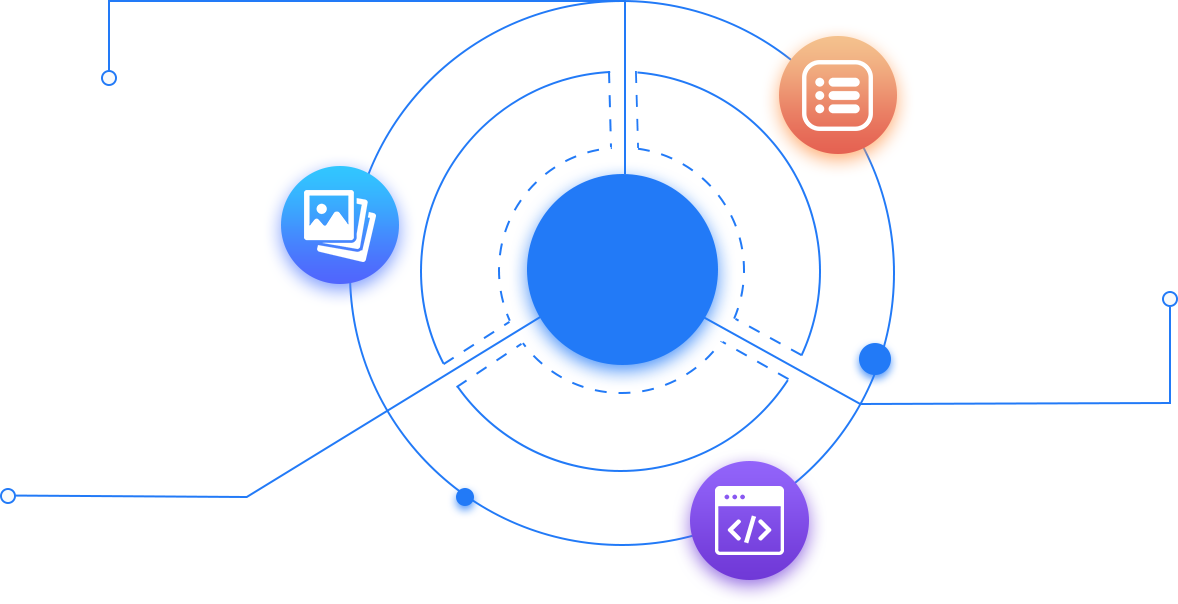
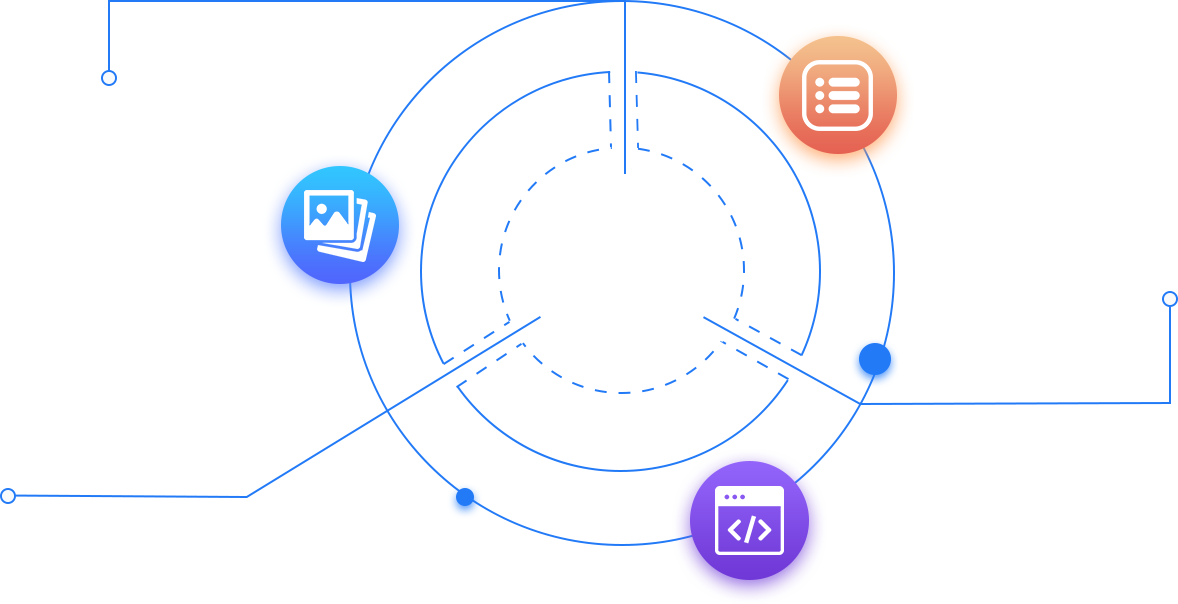
核心技术页面 hover 状态

Changed region(s): [[0.4278, 0.2682, 0.6418, 0.6258]]

diff --git a/static/css/coretech.css b/static/css/coretech.css
@@ -204,7 +204,8 @@
 	.core_datasource {
 		text-align: center;
 		font-size: 24px;
-		color: #a6a7a9
+		color: #a6a7a9;
+		margin-bottom: 60px
 	}
 	.core_pic {
 		width: 33%;
@@ -272,18 +273,6 @@
 		left: 46%;
 		width: 10%
 	}
-	.core_caijifont {
-		position: absolute;
-		text-decoration: none;
-		top:174px;
-		left: 190px;
-		font-size: 30px;	
-		color: white;
-		text-align: center;
-		width: 145px;
-
-	}
-
 	.coretech_parttwo {
 		background-image: url(module2bg.png);
 		background-size: cover;
@@ -400,16 +389,11 @@
 		color: white;
 		text-decoration: none
 	}
-	/*.keshihuafont:hover{
-        box-shadow: 2px 4px 6px #000;
-	}*/
 	.coretech_wrap {
 		position: relative;
 		width: 840px;
 		margin: 0 auto;
-		//border: 1px solid red;
 		margin: 0 auto;
-		margin-top:60px;
 	}
 	.coretech_partonefontwrap1 {
 		position: absolute;
@@ -450,4 +434,96 @@
 	.coretech_partthreefont4box {
 		height: 20px;
 		width: 117px;
+	}
+	#coretech_partonefontwrap4dt {
+		position: absolute;
+		width: 184px;
+		height: 184px;
+		border-radius: 92px;
+		top:113px;
+		left: 167px;
+		background-color: #227af7;
+		box-shadow: 0 15px 30px 0 rgba(34，122，247,0.6);
+	}
+	#core_caijifont {
+		z-index: 1000;
+		position: absolute;		
+		top:168px;
+		left:187px;
+		font-size: 30px;		
+		text-align: center;
+		width: 145px;
+
+	}
+	.core_caijifontdata {
+		text-decoration: none;
+		color: white;
+		font-size: 30px
+	}
+	#core_caijifont:hover + #coretech_partonefontwrap4dt{
+		position: absolute;
+		width: 184px;
+		height: 184px;
+		border-radius: 92px;
+		top:113px;
+		left: 167px;
+		background-color : #1a60c3
+	}
+	#coretech_partonefontwrap4dtrg {
+		position: absolute;
+    	width: 184px;
+    	height: 184px;
+    	border-radius: 92px;
+    	top: -66px;
+    	left: -36px;
+    	background-color: white;
+	}
+	#core_caijifontrg {
+		position: absolute;
+		top:10px;
+		z-index: 1000;
+		text-decoration: none;
+		color: black;
+		width: 184px
+	}
+	#core_caijifontrg:hover + #coretech_partonefontwrap4dtrg{
+		position: absolute;
+    	width: 184px;
+    	height: 184px;
+    	border-radius: 92px;
+    	top: -66px;
+    	left: -36px;
+    	background-color: #d3d3d3;
+	}
+	#coretech_partonefontwrap4dtkeshihua {
+		position: absolute;
+		width: 126px;
+		height: 126px;
+		border-radius: 63px;
+		top:-23px;
+		left: -6px;
+		background-color: #227af7;
+	}
+	#core_caijifontke {
+		z-index: 1000;
+		position: absolute;		
+		top:9px;
+		left:-2px;
+		font-size: 30px;		
+		text-align: center;
+		width: 118px;
+	}
+	.core_caijifontdatakeshihua {
+		text-decoration: none;
+		color: white;
+		font-size: 30px
+	}
+	#core_caijifontke:hover + #coretech_partonefontwrap4dtkeshihua{
+		position: absolute;
+		width: 126px;
+		height: 126px;
+		border-radius: 63px;
+		top:-23px;
+		left: -6px;
+		background-color: #1a60c3;
 	}

diff --git a/coretech.html b/coretech.html
@@ -73,7 +73,7 @@
 				</div>
 				<div class="coretech_wrap">
 					<div class="coretech_img1">
-						<img src='static/imgs/test11.png' class="shujupic"/>
+						<img src='static/imgs/test111.png' class="shujupic"/>
 					</div>
 					<div class="coretech_partonefontwrap1">
 						<div class="core_neiwangfont">内网数据</div>
@@ -88,7 +88,13 @@
 						<div class="core_disanfangemail">支持第三方API 数据连接</div>
 					</div>
 					<div class="coretech_partonefontwrap4">
-						<a href="dataaccess.html" class="core_caijifont">数据接入能力</a>
+						
+						<div id="core_caijifont">
+							<a href="dataaccess.html" class="core_caijifontdata" >数据接入能力</a>
+						</div>
+						<div id="coretech_partonefontwrap4dt">
+							&nbsp;
+						</div>
 					</div>
 				</div>
 				
@@ -102,7 +108,12 @@
 						<div class="coretech_parttwofont3">人工智能引擎</div>
 						<div class="coretech_parttwofont4">自然语言解析</div>
 						<div class="coretech_parttwofont5">
-							<a href="zengqiang.html" class="rengongfont">人工智能</a>
+							<div id="core_caijifontrg">
+							<a href="dataaccess.html" class="rengongfont" >人工智能</a>
+						</div>
+						<div id="coretech_partonefontwrap4dtrg">
+							&nbsp;
+						</div>
 						</div>
 					</div>
 			</div>
@@ -116,8 +127,16 @@
 						<div class="coretech_partthreefont2">灵活便捷的控件</div>
 						<div class="coretech_partthreefont3">全方面互动的 Dashboard</div>
 						<div class="coretech_partthreefont4">
-						<a href="keshihua.html" class="keshihuafont">可视化界面</a>
+
+						<!-- <a href="keshihua.html" class="keshihuafont">可视化界面</a>
+ 						-->	
+ 							<div id="core_caijifontke">
+							<a href="dataaccess.html" class="core_caijifontdatakeshihua" >可视化界面</a>
 						</div>
+						<div id="coretech_partonefontwrap4dtkeshihua">
+							&nbsp;
+						</div>				
+ 						</div>
 						<div></div>
 					</div>
 				</div>

diff --git a/1.html b/1.html
@@ -1,0 +1,22 @@
+<html>
+<body>
+<style>
+ 
+    .core_caijifont:hover + .coretech_partonefontwrap4dt{background-color : red}
+
+    .coretech_partonefontwrap4dt {
+    	height: 10px;
+    	width: 10px;
+    	background-color: blue
+    }
+
+</style>
+<div class='core_caijifont'>
+	<a href="dataaccess.html" >数据接入能力</a>
+</div>
+
+<div class="coretech_partonefontwrap4dt">	&nbsp;						
+</div>
+
+</body>
+</html>
